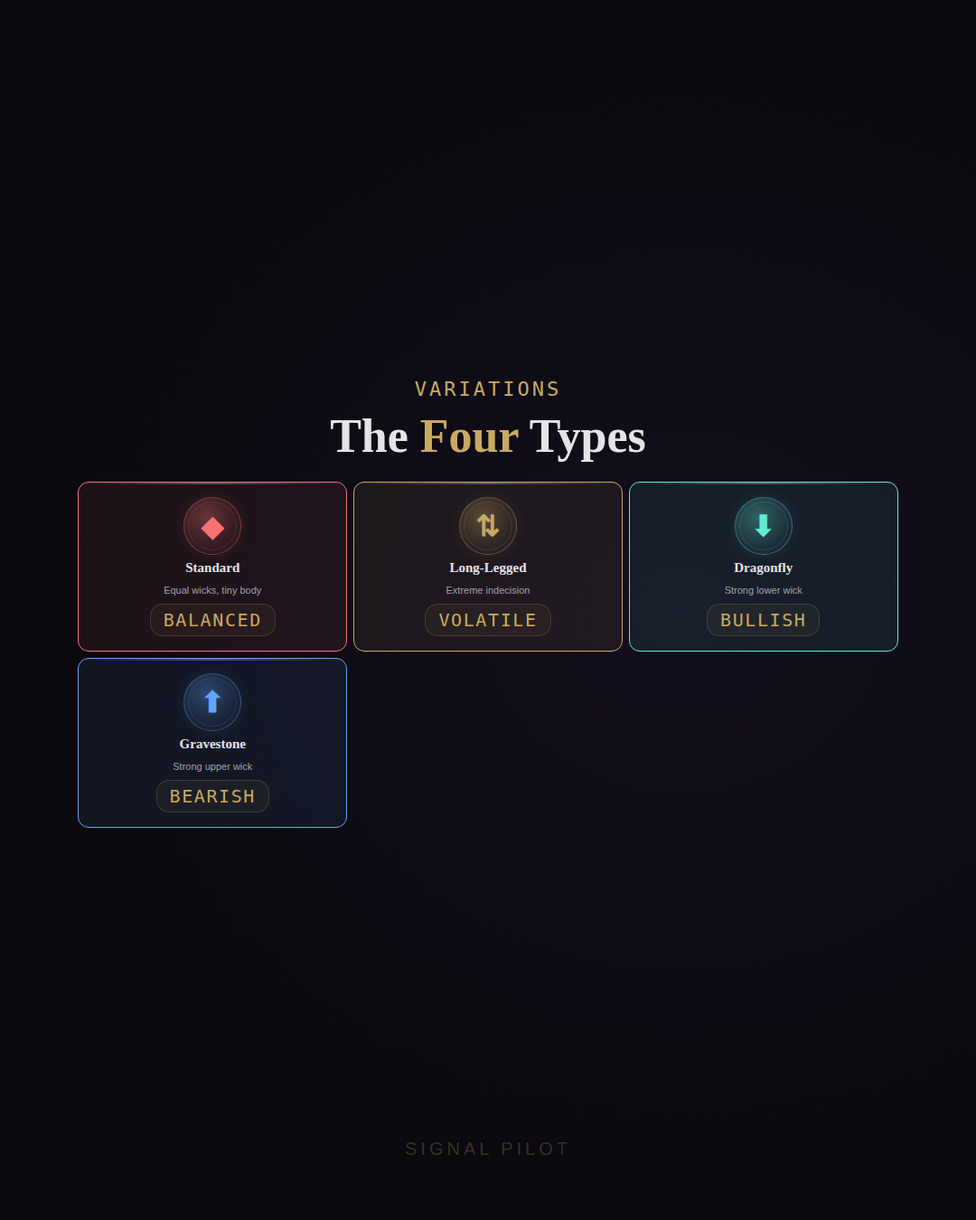
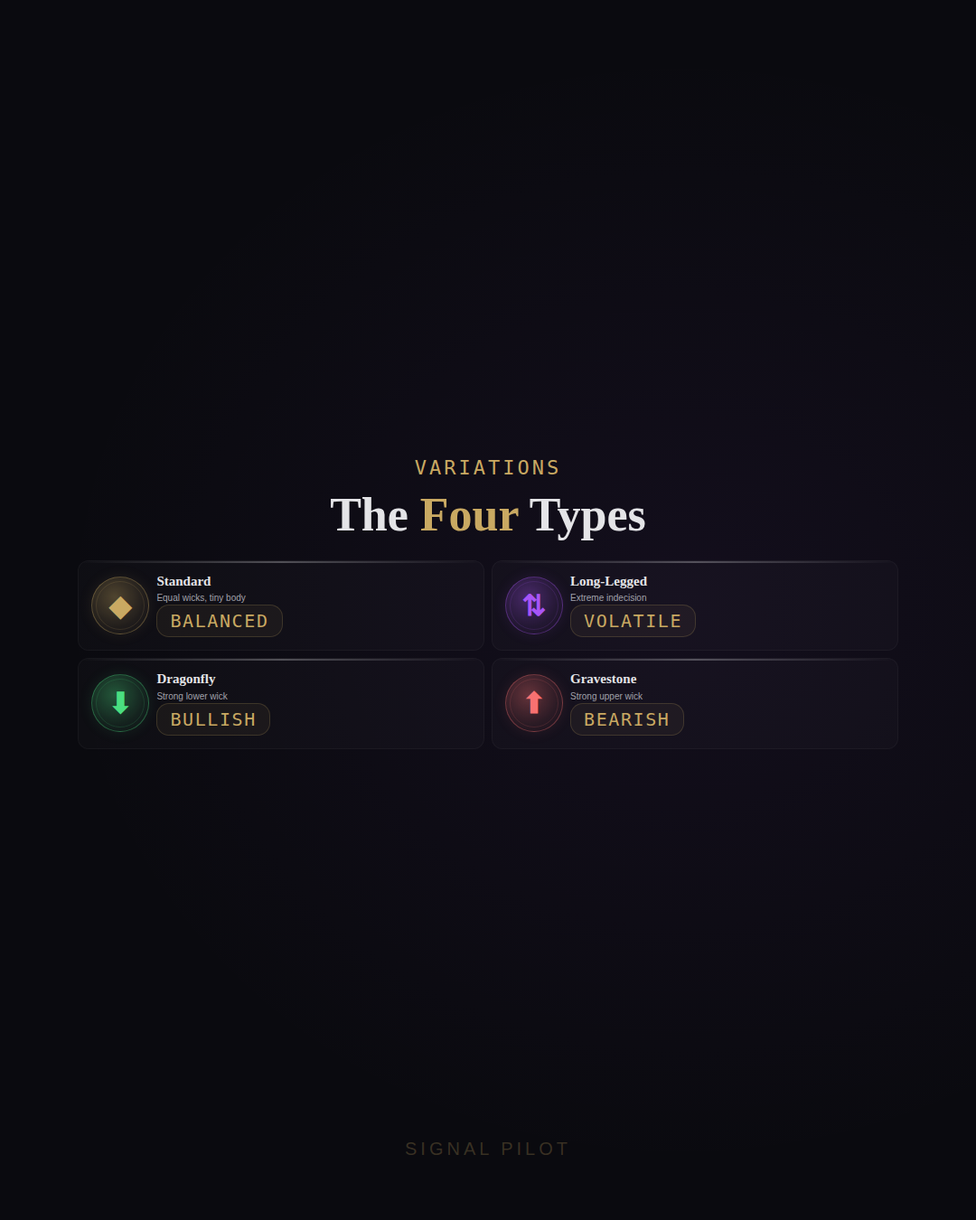
Revert "Redesign post-056 carousel: comprehensive doji pattern guide"
This reverts commit d90a5607555e820868c2ba75f0fc15a04d224658.

diff --git a/INSTAGRAM_CONTENT_HUB/social/post-056/carousel.html b/INSTAGRAM_CONTENT_HUB/social/post-056/carousel.html
@@ -1,12 +1,373 @@
 <!DOCTYPE html>
 <html lang="en">
-<head><meta charset="UTF-8"><meta name="viewport" content="width=device-width, initial-scale=1.0"><title>Post 056 — Doji Mastery</title><link rel="preconnect" href="https://fonts.googleapis.com"><link rel="preconnect" href="https://fonts.gstatic.com" crossorigin><link href="https://fonts.googleapis.com/css2?family=Cormorant+Garamond:ital,wght@0,400;0,500;0,600;0,700&family=Inter:wght@300;400;500;600;700&family=JetBrains+Mono:wght@400;500&family=Gugi&display=swap" rel="stylesheet"><style>*,*::before,*::after{margin:0;padding:0;box-sizing:border-box}:root{--bg:#0a0a0f;--surface:rgba(255,255,255,0.02);--gold:#c9a962;--gold-l:rgba(201,169,98,0.15);--gold-d:rgba(201,169,98,0.08);--teal:#5eead4;--teal-l:rgba(94,234,212,0.15);--teal-d:rgba(94,234,212,0.08);--green:#4ade80;--green-l:rgba(74,222,128,0.15);--green-d:rgba(74,222,128,0.08);--red:#f87171;--red-l:rgba(248,113,113,0.15);--red-d:rgba(248,113,113,0.08);--blue:#60a5fa;--blue-l:rgba(96,165,250,0.15);--blue-d:rgba(96,165,250,0.08);--purple:#a855f7;--purple-l:rgba(168,85,247,0.15);--purple-d:rgba(168,85,247,0.08);--orange:#f59e0b;--orange-l:rgba(245,158,11,0.15);--orange-d:rgba(245,158,11,0.08);--txt:#e4e4e7;--txt2:#a1a1aa;--txt3:#52525b;--serif:'Cormorant Garamond',serif;--sans:'Inter',sans-serif;--mono:'JetBrains Mono',monospace;--brand:'Gugi',sans-serif}body{background:var(--bg);color:var(--txt);font-family:var(--sans);min-height:100vh;padding:40px 20px}.controls{position:fixed;top:20px;right:20px;z-index:100;display:flex;gap:12px}.controls button{background:var(--gold);color:var(--bg);border:none;padding:8px 16px;border-radius:6px;cursor:pointer;font-size:12px;font-weight:600}.page-title{text-align:center;margin-bottom:40px}.page-title h1{font-family:var(--serif);font-size:28px;font-weight:400;margin-bottom:8px}.page-title p{color:var(--txt3);font-size:14px}.carousel-grid{display:grid;grid-template-columns:repeat(auto-fit,minmax(320px,1fr));gap:24px;max-width:1400px;margin:0 auto}.slide-wrapper{aspect-ratio:4/5;position:relative;border-radius:12px;overflow:hidden;background:var(--bg);box-shadow:0 4px 24px rgba(0,0,0,0.4);container-type:inline-size}.slide-content{position:relative;z-index:2;width:100%;height:100%;display:flex;flex-direction:column;align-items:center;padding:5%;text-align:center;justify-content:space-between}.slide-number{font-family:var(--mono);font-size:clamp(7px,1.4cqw,10px);color:var(--txt3);letter-spacing:0.12em}.brand-mark{font-family:var(--brand);font-size:clamp(7px,1.4cqw,10px);color:rgba(201,169,98,0.25);letter-spacing:0.15em}.slide-wrapper::before{content:'';position:absolute;inset:0;z-index:1}.s1::before{background:radial-gradient(ellipse at 50% 40%,rgba(201,169,98,0.08) 0%,transparent 65%)}.s2::before{background:radial-gradient(ellipse at 30% 60%,rgba(94,234,212,0.06) 0%,transparent 65%)}.s3::before{background:radial-gradient(ellipse at 70% 50%,rgba(168,85,247,0.06) 0%,transparent 65%)}.s4::before{background:radial-gradient(ellipse at 50% 60%,rgba(74,222,128,0.06) 0%,transparent 65%)}.s5::before{background:radial-gradient(ellipse at 40% 50%,rgba(96,165,250,0.06) 0%,transparent 65%)}.s6::before{background:radial-gradient(ellipse at 60% 40%,rgba(248,113,113,0.06) 0%,transparent 65%)}.s7::before{background:radial-gradient(ellipse at 50% 50%,rgba(245,158,11,0.06) 0%,transparent 65%)}.s8::before{background:radial-gradient(ellipse at 50% 50%,rgba(201,169,98,0.05) 0%,transparent 60%)}.mid-content{flex:1;display:flex;flex-direction:column;align-items:center;justify-content:center;width:100%}.hook-tag{font-family:var(--mono);font-size:clamp(7px,1.3cqw,10px);letter-spacing:0.25em;text-transform:uppercase;color:var(--gold);margin-bottom:clamp(8px,1.5cqw,12px)}.hook-title{font-family:var(--serif);font-size:clamp(26px,6cqw,48px);font-weight:700;line-height:1.1;color:var(--txt);margin-bottom:clamp(10px,2cqw,16px)}.hook-title em{color:var(--gold);font-style:normal}.hook-sub{font-size:clamp(10px,2cqw,15px);color:var(--txt2);line-height:1.6;max-width:90%}.sec-tag{font-family:var(--mono);font-size:clamp(6px,1.1cqw,9px);letter-spacing:0.2em;text-transform:uppercase;color:var(--gold);margin-bottom:clamp(6px,1.2cqw,10px)}.sec-title{font-family:var(--serif);font-size:clamp(20px,4.5cqw,36px);font-weight:700;line-height:1.15;color:var(--txt);margin-bottom:clamp(12px,2.5cqw,20px)}.sec-title em{color:var(--gold);font-style:normal}.orb{position:relative;width:clamp(110px,22cqw,200px);height:clamp(110px,22cqw,200px);border-radius:50%;background:radial-gradient(circle at 40% 35%,rgba(201,169,98,0.4) 0%,rgba(201,169,98,0.15) 40%,rgba(255,255,255,0.02) 70%,transparent 100%);border:2px solid rgba(201,169,98,0.3);box-shadow:0 0 60px rgba(201,169,98,0.15),0 0 120px rgba(201,169,98,0.05),inset 0 0 40px rgba(201,169,98,0.08);display:flex;align-items:center;justify-content:center;margin-bottom:clamp(10px,2cqw,16px);flex-shrink:0}.orb::before{content:'';position:absolute;inset:8px;border-radius:50%;border:1.5px solid rgba(201,169,98,0.2);background:radial-gradient(circle at 35% 35%,rgba(201,169,98,0.1) 0%,transparent 70%)}.orb::after{content:'';position:absolute;inset:22px;border-radius:50%;border:1px dashed rgba(201,169,98,0.15)}.venn-container{position:relative;width:100%;height:100%;z-index:2}.venn-circle{position:absolute;border-radius:50%;border:1.5px solid;opacity:0.6}.venn-confirm{width:70%;height:70%;top:5%;left:15%;border-color:var(--green)}.venn-bull{width:70%;height:70%;bottom:5%;left:0;border-color:var(--red)}.venn-bear{width:70%;height:70%;bottom:5%;right:0;border-color:var(--gold)}.venn-center{position:absolute;top:50%;left:50%;transform:translate(-50%,-50%);width:20%;height:20%;border-radius:50%;background:radial-gradient(circle,rgba(201,169,98,0.4) 0%,transparent 100%);box-shadow:0 0 16px rgba(201,169,98,0.3)}.venn-label{position:absolute;font-family:var(--mono);font-size:clamp(5px,1cqw,8px);letter-spacing:0.08em;color:var(--txt2)}.vl-top{top:-10%;left:50%;transform:translateX(-50%);color:var(--green)}.vl-left{bottom:-8%;left:-5%;color:var(--red)}.vl-right{bottom:-8%;right:-5%;color:var(--gold)}.grid-4{width:100%;display:grid;grid-template-columns:1fr 1fr;gap:clamp(6px,1.2cqw,10px);margin-bottom:clamp(8px,1.6cqw,12px)}.grid-3{width:100%;display:grid;grid-template-columns:1fr 1fr 1fr;gap:clamp(4px,0.8cqw,7px);margin-bottom:clamp(10px,2cqw,16px)}.grid-3-full{width:100%;display:flex;flex-direction:column;gap:clamp(5px,1cqw,8px);margin-bottom:clamp(10px,2cqw,16px)}.card{padding:clamp(8px,1.6cqw,14px);border-radius:clamp(8px,1.5cqw,12px);background:var(--surface);border:1px solid rgba(255,255,255,0.04);display:flex;flex-direction:column;gap:clamp(4px,0.8cqw,6px);text-align:left;position:relative;overflow:hidden}.card::before{content:'';position:absolute;top:0;left:0;right:0;height:2px;background:linear-gradient(90deg,transparent,currentColor,transparent);opacity:0.3}.card:nth-child(1){background:var(--red-d);border-color:var(--red)}.card:nth-child(2){background:var(--gold-d);border-color:var(--gold)}.card:nth-child(3){background:var(--teal-d);border-color:var(--teal)}.card:nth-child(4){background:var(--blue-d);border-color:var(--blue)}.grid-3.types-grid .card{padding:clamp(10px,2cqw,16px);text-align:center;align-items:center}.icon-circle{width:clamp(36px,7cqw,60px);height:clamp(36px,7cqw,60px);border-radius:50%;display:flex;align-items:center;justify-content:center;position:relative;flex-shrink:0}.icon-circle::before{content:'';position:absolute;inset:4px;border-radius:50%}.ic-letter{font-family:var(--serif);font-size:clamp(14px,3cqw,26px);font-weight:700;position:relative;z-index:2}.card:nth-child(1) .icon-circle{background:radial-gradient(circle at 40% 35%,rgba(248,113,113,0.35) 0%,rgba(248,113,113,0.1) 60%,transparent 100%);border:1.5px solid rgba(248,113,113,0.35);box-shadow:0 0 16px rgba(248,113,113,0.1)}.card:nth-child(1) .icon-circle::before{border:1px solid rgba(248,113,113,0.15)}.card:nth-child(1) .ic-letter{color:var(--red)}.card:nth-child(2) .icon-circle{background:radial-gradient(circle at 40% 35%,rgba(201,169,98,0.35) 0%,rgba(201,169,98,0.1) 60%,transparent 100%);border:1.5px solid rgba(201,169,98,0.35);box-shadow:0 0 16px rgba(201,169,98,0.1)}.card:nth-child(2) .icon-circle::before{border:1px solid rgba(201,169,98,0.15)}.card:nth-child(2) .ic-letter{color:var(--gold)}.card:nth-child(3) .icon-circle{background:radial-gradient(circle at 40% 35%,rgba(94,234,212,0.35) 0%,rgba(94,234,212,0.1) 60%,transparent 100%);border:1.5px solid rgba(94,234,212,0.35);box-shadow:0 0 16px rgba(94,234,212,0.1)}.card:nth-child(3) .icon-circle::before{border:1px solid rgba(94,234,212,0.15)}.card:nth-child(3) .ic-letter{color:var(--teal)}.card:nth-child(4) .icon-circle{background:radial-gradient(circle at 40% 35%,rgba(96,165,250,0.35) 0%,rgba(96,165,250,0.1) 60%,transparent 100%);border:1.5px solid rgba(96,165,250,0.35);box-shadow:0 0 16px rgba(96,165,250,0.1)}.card:nth-child(4) .icon-circle::before{border:1px solid rgba(96,165,250,0.15)}.card:nth-child(4) .ic-letter{color:var(--blue)}.label{font-family:var(--mono);font-size:clamp(6px,1cqw,8px);letter-spacing:0.15em;text-transform:uppercase;color:var(--gold);margin-bottom:clamp(1px,0.2cqw,2px)}.title{font-family:var(--serif);font-size:clamp(10px,2cqw,15px);font-weight:600;color:var(--txt);margin-bottom:clamp(1px,0.2cqw,3px)}.desc{font-size:clamp(8px,1.5cqw,11px);color:var(--txt2);line-height:1.5}.stat-bar{width:100%;height:clamp(3px,0.5cqw,4px);border-radius:3px;background:rgba(255,255,255,0.04);margin-top:clamp(3px,0.6cqw,5px);overflow:hidden}.stat-fill{height:100%;background:linear-gradient(90deg,var(--gold),rgba(201,169,98,0.3));border-radius:3px}.card:nth-child(1) .stat-fill{background:linear-gradient(90deg,var(--red),rgba(248,113,113,0.3))}.card:nth-child(2) .stat-fill{background:linear-gradient(90deg,var(--gold),rgba(201,169,98,0.3))}.card:nth-child(3) .stat-fill{background:linear-gradient(90deg,var(--teal),rgba(94,234,212,0.3))}.card:nth-child(4) .stat-fill{background:linear-gradient(90deg,var(--blue),rgba(96,165,250,0.3))}.pill{display:inline-block;padding:clamp(2px,0.4cqw,4px) clamp(7px,1.3cqw,12px);border-radius:14px;font-family:var(--mono);font-size:clamp(5px,0.95cqw,8px);letter-spacing:0.08em;background:rgba(201,169,98,0.06);border:1px solid rgba(201,169,98,0.2);color:var(--gold)}.step-flow{width:100%;display:flex;flex-direction:column;gap:clamp(5px,1cqw,8px)}.step-row{display:flex;align-items:flex-start;gap:clamp(6px,1.2cqw,10px)}.step-ring{width:clamp(28px,5.2cqw,45px);height:clamp(28px,5.2cqw,45px);border-radius:50%;display:flex;align-items:center;justify-content:center;flex-shrink:0;background:radial-gradient(circle at 40% 35%,rgba(201,169,98,0.35) 0%,rgba(201,169,98,0.1) 60%,transparent 100%);border:1.5px solid rgba(201,169,98,0.35);position:relative}.step-ring::before{content:'';position:absolute;inset:4px;border-radius:50%;border:1px solid rgba(201,169,98,0.15)}.step-ring:nth-child(2){background:radial-gradient(circle at 40% 35%,rgba(74,222,128,0.35) 0%,rgba(74,222,128,0.1) 60%,transparent 100%);border-color:rgba(74,222,128,0.35)}.step-ring:nth-child(2)::before{border-color:rgba(74,222,128,0.15)}.step-ring:nth-child(3){background:radial-gradient(circle at 40% 35%,rgba(248,113,113,0.35) 0%,rgba(248,113,113,0.1) 60%,transparent 100%);border-color:rgba(248,113,113,0.35)}.step-ring:nth-child(3)::before{border-color:rgba(248,113,113,0.15)}.step-num{font-family:var(--serif);font-size:clamp(12px,2.4cqw,20px);font-weight:700;position:relative;z-index:2}.step-row:nth-child(1) .step-num{color:var(--gold)}.step-row:nth-child(2) .step-num{color:var(--green)}.step-row:nth-child(3) .step-num{color:var(--red)}.step-body{flex:1;text-align:left;padding-top:clamp(2px,0.4cqw,4px)}.step-title{font-family:var(--serif);font-size:clamp(10px,1.9cqw,15px);font-weight:600;color:var(--txt);margin-bottom:clamp(1px,0.2cqw,3px)}.step-desc{font-size:clamp(8px,1.5cqw,11px);color:var(--txt2);line-height:1.5}.ctx-item{padding:clamp(8px,1.6cqw,12px);border-radius:clamp(8px,1.5cqw,12px);background:var(--surface);border:1px solid rgba(255,255,255,0.04);border-left:4px solid;display:flex;gap:clamp(6px,1.2cqw,10px);align-items:flex-start}.ctx-item:nth-child(1){background:var(--blue-d);border-left-color:var(--blue)}.ctx-item:nth-child(2){background:var(--gold-d);border-left-color:var(--gold)}.ctx-item:nth-child(3){background:var(--red-d);border-left-color:var(--red)}.ctx-icon{font-size:clamp(18px,3.8cqw,28px);flex-shrink:0}.ctx-body{flex:1}.ctx-label{font-family:var(--mono);font-size:clamp(6px,1.1cqw,9px);letter-spacing:0.15em;text-transform:uppercase;margin-bottom:clamp(1px,0.2cqw,2px)}.ctx-item:nth-child(1) .ctx-label{color:var(--blue)}.ctx-item:nth-child(2) .ctx-label{color:var(--gold)}.ctx-item:nth-child(3) .ctx-label{color:var(--red)}.ctx-title{font-family:var(--serif);font-size:clamp(10px,1.9cqw,14px);font-weight:600;color:var(--txt);margin-bottom:clamp(1px,0.2cqw,2px)}.ctx-desc{font-size:clamp(7px,1.4cqw,10px);color:var(--txt2);line-height:1.5}.trap-item{padding:clamp(8px,1.6cqw,12px);border-radius:clamp(8px,1.5cqw,12px);background:var(--surface);border:1px solid rgba(255,255,255,0.04);border-left:3px solid;display:flex;gap:clamp(6px,1.2cqw,10px)}.trap-item:nth-child(1){background:var(--red-d);border-left-color:var(--red)}.trap-item:nth-child(2){background:var(--orange-d);border-left-color:var(--orange)}.trap-item:nth-child(3){background:var(--purple-d);border-left-color:var(--purple)}.trap-icon{font-size:clamp(18px,3.5cqw,26px);flex-shrink:0}.trap-title{font-family:var(--serif);font-size:clamp(9px,1.8cqw,13px);font-weight:600;color:var(--txt)}.trap-desc{font-size:clamp(7px,1.3cqw,10px);color:var(--txt2);line-height:1.5}.stat-box{padding:clamp(8px,1.6cqw,14px);border-radius:clamp(8px,1.5cqw,12px);background:var(--surface);border:1px solid rgba(255,255,255,0.04);text-align:center}.stat-box:nth-child(1){background:var(--gold-d);border-color:var(--gold)}.stat-box:nth-child(2){background:var(--teal-d);border-color:var(--teal)}.stat-box:nth-child(3){background:var(--green-d);border-color:var(--green)}.stat-value{font-family:var(--serif);font-size:clamp(16px,3.2cqw,26px);font-weight:700;color:var(--txt);margin-bottom:clamp(2px,0.4cqw,4px)}.stat-box:nth-child(1) .stat-value{color:var(--gold)}.stat-box:nth-child(2) .stat-value{color:var(--teal)}.stat-box:nth-child(3) .stat-value{color:var(--green)}.stat-label{font-family:var(--mono);font-size:clamp(6px,1cqw,8px);letter-spacing:0.15em;text-transform:uppercase;color:var(--txt2)}.cta-badge{display:inline-block;padding:clamp(3px,0.6cqw,5px) clamp(10px,2cqw,16px);border:1px solid rgba(201,169,98,0.3);border-radius:18px;font-family:var(--mono);font-size:clamp(6px,1.1cqw,9px);color:var(--gold);letter-spacing:0.2em;margin-bottom:clamp(8px,1.6cqw,14px)}.cta-title{font-family:var(--serif);font-size:clamp(22px,5cqw,40px);font-weight:700;line-height:1.15;margin-bottom:clamp(6px,1.2cqw,10px)}.cta-title em{color:var(--gold);font-style:normal}.cta-sub{font-size:clamp(9px,1.8cqw,13px);color:var(--txt2);line-height:1.6;max-width:88%;margin-bottom:clamp(8px,1.6cqw,12px)}.pill-row{display:flex;flex-wrap:wrap;gap:clamp(3px,0.6cqw,6px);justify-content:center}.body-export-mode{padding:0;background:#000}body.export-mode .controls,body.export-mode .page-title{display:none}body.export-mode .carousel-grid{display:block}body.export-mode .slide-wrapper{display:none;width:1080px;height:1350px;border-radius:0}body.export-mode .slide-wrapper.active{display:block}.export-nav{display:none;position:fixed;bottom:20px;left:50%;transform:translateX(-50%);gap:12px;z-index:1000}body.export-mode .export-nav{display:flex}body.export-mode .carousel-grid{display:block}.export-nav button{background:var(--gold);color:var(--bg);border:none;padding:12px 24px;border-radius:8px;cursor:pointer;font-size:14px;font-weight:600}.export-nav span{background:rgba(255,255,255,0.08);color:var(--txt);padding:12px 24px;border-radius:8px;font-size:14px}</style></head><body><div class="controls"><button onclick="toggleExport()">Export Mode</button></div><div class="page-title"><h1>Post 056 — Doji Mastery</h1><p>8 slides · Candlestick Education</p></div><div class="carousel-grid">
-<!-- SLIDE 1 --><div class="slide-wrapper s1"><div class="slide-content"><div class="slide-number">01 / 08</div><div class="mid-content"><div class="hook-tag">PRICE ACTION</div><div class="hook-title">Doji Is <em>Not</em><br>a Reversal</div><div class="orb"><div class="venn-container"><div class="venn-circle venn-confirm"></div><div class="venn-circle venn-bull"></div><div class="venn-circle venn-bear"></div><div class="venn-center"></div><span class="venn-label vl-top">CONFIRM</span><span class="venn-label vl-left">BULLISH</span><span class="venn-label vl-right">BEARISH</span></div></div><p class="hook-sub">Learn what doji patterns signal, how confirmation works, and when context matters most.</p></div><div class="brand-mark">SIGNAL PILOT</div></div></div>
-<!-- SLIDE 2 --><div class="slide-wrapper s2"><div class="slide-content"><div class="slide-number">02 / 08</div><div class="mid-content"><div class="sec-tag">STRUCTURE</div><div class="sec-title">The <em>Four</em> Parts</div><div class="grid-4"><div class="card"><div class="label">UPPER WICK</div><div class="title">Bulls Pushed Higher</div><div class="desc">Rejection from above. Failed breakout attempt.</div><div class="stat-bar"><div class="stat-fill" style="width:85%"></div></div></div><div class="card"><div class="label">INDECISION BODY</div><div class="title">Open ≈ Close</div><div class="desc">No directional consensus. Equal power, stalemate.</div><div class="stat-bar"><div class="stat-fill" style="width:40%"></div></div></div><div class="card"><div class="label">LOWER WICK</div><div class="title">Bears Pushed Lower</div><div class="desc">Support tested. Buyers defended level.</div><div class="stat-bar"><div class="stat-fill" style="width:80%"></div></div></div><div class="card"><div class="label">KEY INSIGHT</div><div class="title">Neither Side Won</div><div class="desc">Indecision means next candle must confirm direction.</div></div></div></div><div class="brand-mark">SIGNAL PILOT</div></div></div>
-<!-- SLIDE 3 --><div class="slide-wrapper s3"><div class="slide-content"><div class="slide-number">03 / 08</div><div class="mid-content"><div class="sec-tag">VARIATIONS</div><div class="sec-title">The <em>Four</em> Types</div><div class="grid-3 types-grid"><div class="card"><div class="icon-circle"><span class="ic-letter">◆</span></div><div class="title">Standard</div><div class="desc">Equal wicks, tiny body</div><span class="pill">BALANCED</span></div><div class="card"><div class="icon-circle"><span class="ic-letter">⇅</span></div><div class="title">Long-Legged</div><div class="desc">Extreme indecision</div><span class="pill">VOLATILE</span></div><div class="card"><div class="icon-circle"><span class="ic-letter">⬇</span></div><div class="title">Dragonfly</div><div class="desc">Strong lower wick</div><span class="pill">BULLISH</span></div><div class="card"><div class="icon-circle"><span class="ic-letter">⬆</span></div><div class="title">Gravestone</div><div class="desc">Strong upper wick</div><span class="pill">BEARISH</span></div></div></div><div class="brand-mark">SIGNAL PILOT</div></div></div>
-<!-- SLIDE 4 --><div class="slide-wrapper s4"><div class="slide-content"><div class="slide-number">04 / 08</div><div class="mid-content"><div class="sec-tag">THE RULE</div><div class="sec-title">Next Candle <em>Decides</em></div><div class="step-flow"><div class="step-row"><div class="step-ring"><span class="step-num">1</span></div><div class="step-body"><div class="step-title">Doji Appears</div><div class="step-desc">Equal wicks, indecision forms. Wait for confirmation signal.</div></div></div><div class="step-row"><div class="step-ring"><span class="step-num">2</span></div><div class="step-body"><div class="step-title">Buyers Take Control</div><div class="step-desc">Next candle is green/bull. Buyers won battle at the doji level.</div></div></div><div class="step-row"><div class="step-ring"><span class="step-num">3</span></div><div class="step-body"><div class="step-title">Sellers Take Control</div><div class="step-desc">Next candle is red/bear. Sellers won battle at the doji level.</div></div></div></div></div><div class="brand-mark">SIGNAL PILOT</div></div></div>
-<!-- SLIDE 5 --><div class="slide-wrapper s5"><div class="slide-content"><div class="slide-number">05 / 08</div><div class="mid-content"><div class="sec-tag">CONTEXT STACKING</div><div class="sec-title">Where <em>Matters</em> Most</div><div class="grid-3-full"><div class="ctx-item"><div class="ctx-icon">👀</div><div class="ctx-body"><div class="ctx-label">WATCH CLOSELY</div><div class="ctx-title">At S/R Level</div><div class="ctx-desc">Support or resistance. Doji = decision point. Higher probability reversal.</div></div></div><div class="ctx-item"><div class="ctx-icon">🔥</div><div class="ctx-body"><div class="ctx-label">HIGH PROBABILITY</div><div class="ctx-title">After Extended Move</div><div class="ctx-desc">After strong trend + exhaustion + doji = institutional reversal zone forming.</div></div></div><div class="ctx-item"><div class="ctx-icon">😐</div><div class="ctx-body"><div class="ctx-label">PROBABLY NOISE</div><div class="ctx-title">Mid-Trend Doji</div><div class="ctx-desc">No key level nearby. No confluence factors. Pass and wait for better setup.</div></div></div></div></div><div class="brand-mark">SIGNAL PILOT</div></div></div>
-<!-- SLIDE 6 --><div class="slide-wrapper s6"><div class="slide-content"><div class="slide-number">06 / 08</div><div class="mid-content"><div class="sec-tag">COMMON TRAPS</div><div class="sec-title">Mistakes to <em>Avoid</em></div><div class="grid-3-full"><div class="trap-item"><div class="trap-icon">⚠</div><div><div class="trap-title">Trading Without Confirmation</div><div class="trap-desc">Doji alone is NOT a signal. Must wait for next candle.</div></div></div><div class="trap-item"><div class="trap-icon">❌</div><div><div class="trap-title">Ignoring Market Context</div><div class="trap-desc">Same doji in uptrend vs downtrend means different things.</div></div></div><div class="trap-item"><div class="trap-icon">🚫</div><div><div class="trap-title">Expecting Reversal Always</div><div class="trap-desc">Doji can continue trend. Context and levels determine outcome.</div></div></div></div></div><div class="brand-mark">SIGNAL PILOT</div></div></div>
-<!-- SLIDE 7 --><div class="slide-wrapper s7"><div class="slide-content"><div class="slide-number">07 / 08</div><div class="mid-content"><div class="sec-tag">KEY STATISTICS</div><div class="sec-title">Doji <em>Success</em> Metrics</div><div class="grid-3"><div class="stat-box"><div class="stat-value">73%</div><div class="stat-label">At Key Levels</div></div><div class="stat-box"><div class="stat-value">52%</div><div class="stat-label">Mid-Trend</div></div><div class="stat-box"><div class="stat-value">4:1</div><div class="stat-label">Ratio (Win:Loss)</div></div></div><p style="font-size:clamp(8px,1.5cqw,11px);color:var(--txt2);margin-top:clamp(6px,1.2cqw,10px);">Context and confluence determine probability, not the pattern alone.</p></div><div class="brand-mark">SIGNAL PILOT</div></div></div>
-<!-- SLIDE 8 --><div class="slide-wrapper s8"><div class="slide-content"><div class="slide-number">08 / 08</div><div class="mid-content"><div class="cta-badge">CANDLESTICK MASTERY</div><div class="cta-title">Build Your <em>Trading</em> Foundation</div><p class="cta-sub">Master doji confirmation, learn context stacking, and trade with institutional-grade conviction.</p><div class="pill-row"><span class="pill">DOJI TYPES</span><span class="pill">CONFIRMATION</span><span class="pill">CONTEXT</span><span class="pill">CONFLUENCE</span><span class="pill">PRICE ACTION</span></div></div><div class="brand-mark">SIGNAL PILOT</div></div></div>
-</div><div class="export-nav"><button onclick="prev()">← Prev</button><span><span id="cur">1</span> / 08</span><button onclick="next()">Next →</button></div><script>const slides=document.querySelectorAll('.slide-wrapper');let cur=0,exp=false;function toggleExport(){exp=!exp;document.body.classList.toggle('export-mode',exp);if(exp){cur=0;upd()}}function upd(){slides.forEach((s,i)=>s.classList.toggle('active',i===cur));document.getElementById('cur').textContent=String(cur+1).padStart(2,'0')}function next(){cur=(cur+1)%slides.length;upd()}function prev(){cur=(cur-1+slides.length)%slides.length;upd()}document.addEventListener('keydown',e=>{if(!exp)return;if(e.key==='ArrowRight')next();if(e.key==='ArrowLeft')prev();if(e.key==='Escape')toggleExport()})</script></body></html>
+<head>
+  <meta charset="UTF-8">
+  <meta name="viewport" content="width=device-width, initial-scale=1.0">
+  <title>Post 056 — Doji Mastery</title>
+  <link rel="preconnect" href="https://fonts.googleapis.com">
+  <link rel="preconnect" href="https://fonts.gstatic.com" crossorigin>
+  <link href="https://fonts.googleapis.com/css2?family=Cormorant+Garamond:ital,wght@0,400;0,500;0,600;0,700&family=Inter:wght@300;400;500;600;700&family=JetBrains+Mono:wght@400;500&family=Gugi&display=swap" rel="stylesheet">
+  <style>
+*,*::before,*::after{margin:0;padding:0;box-sizing:border-box}
+:root{--bg:#0a0a0f;--surface:rgba(255,255,255,0.02);--gold:#c9a962;--gold-l:rgba(201,169,98,0.15);--gold-d:rgba(201,169,98,0.08);--teal:#5eead4;--teal-l:rgba(94,234,212,0.15);--teal-d:rgba(94,234,212,0.08);--green:#4ade80;--green-l:rgba(74,222,128,0.15);--green-d:rgba(74,222,128,0.08);--red:#f87171;--red-l:rgba(248,113,113,0.15);--red-d:rgba(248,113,113,0.08);--blue:#60a5fa;--blue-l:rgba(96,165,250,0.15);--blue-d:rgba(96,165,250,0.08);--purple:#a855f7;--purple-l:rgba(168,85,247,0.15);--purple-d:rgba(168,85,247,0.08);--txt:#e4e4e7;--txt2:#a1a1aa;--txt3:#52525b;--serif:'Cormorant Garamond',serif;--sans:'Inter',sans-serif;--mono:'JetBrains Mono',monospace;--brand:'Gugi',sans-serif}
+body{background:var(--bg);color:var(--txt);font-family:var(--sans);min-height:100vh;padding:40px 20px}
+.controls{position:fixed;top:20px;right:20px;z-index:100;display:flex;gap:12px}
+.controls button{background:var(--gold);color:var(--bg);border:none;padding:8px 16px;border-radius:6px;cursor:pointer;font-size:12px;font-weight:600}
+.page-title{text-align:center;margin-bottom:40px}
+.page-title h1{font-family:var(--serif);font-size:28px;font-weight:400;margin-bottom:8px}
+.page-title p{color:var(--txt3);font-size:14px}
+.carousel-grid{display:grid;grid-template-columns:repeat(auto-fit,minmax(320px,1fr));gap:24px;max-width:1400px;margin:0 auto}
+.slide-wrapper{aspect-ratio:4/5;position:relative;border-radius:12px;overflow:hidden;background:var(--bg);box-shadow:0 4px 24px rgba(0,0,0,0.4);container-type:inline-size}
+.slide-content{position:relative;z-index:2;width:100%;height:100%;display:flex;flex-direction:column;align-items:center;padding:6%;text-align:center;justify-content:space-between}
+.slide-number{font-family:var(--mono);font-size:clamp(7px,1.4cqw,10px);color:var(--txt3);letter-spacing:0.12em}
+.brand-mark{font-family:var(--brand);font-size:clamp(7px,1.4cqw,10px);color:rgba(201,169,98,0.25);letter-spacing:0.15em}
+.slide-wrapper::before{content:'';position:absolute;inset:0;z-index:1}
+.s1::before{background:radial-gradient(ellipse at 50% 40%,rgba(201,169,98,0.08) 0%,transparent 65%)}
+.s2::before{background:radial-gradient(ellipse at 30% 60%,rgba(94,234,212,0.06) 0%,transparent 65%)}
+.s3::before{background:radial-gradient(ellipse at 70% 50%,rgba(168,85,247,0.06) 0%,transparent 65%)}
+.s4::before{background:radial-gradient(ellipse at 50% 60%,rgba(74,222,128,0.06) 0%,transparent 65%)}
+.s5::before{background:radial-gradient(ellipse at 40% 50%,rgba(96,165,250,0.06) 0%,transparent 65%)}
+.s6::before{background:radial-gradient(ellipse at 50% 50%,rgba(201,169,98,0.05) 0%,transparent 60%)}
+
+.mid-content{flex:1;display:flex;flex-direction:column;align-items:center;justify-content:center;width:100%}
+.hook-tag{font-family:var(--mono);font-size:clamp(7px,1.3cqw,10px);letter-spacing:0.25em;text-transform:uppercase;color:var(--gold);margin-bottom:clamp(8px,1.5cqw,12px)}
+.hook-title{font-family:var(--serif);font-size:clamp(26px,6cqw,48px);font-weight:700;line-height:1.1;color:var(--txt);margin-bottom:clamp(10px,2cqw,16px)}
+.hook-title em{color:var(--gold);font-style:normal}
+.hook-sub{font-size:clamp(10px,2cqw,15px);color:var(--txt2);line-height:1.6;max-width:90%}
+.sec-tag{font-family:var(--mono);font-size:clamp(6px,1.1cqw,9px);letter-spacing:0.2em;text-transform:uppercase;color:var(--gold);margin-bottom:clamp(6px,1.2cqw,10px)}
+.sec-title{font-family:var(--serif);font-size:clamp(20px,4.5cqw,36px);font-weight:700;line-height:1.15;color:var(--txt);margin-bottom:clamp(12px,2.5cqw,20px)}
+.sec-title em{color:var(--gold);font-style:normal}
+
+.orb{position:relative;width:clamp(110px,22cqw,200px);height:clamp(110px,22cqw,200px);border-radius:50%;background:radial-gradient(circle at 40% 35%,rgba(201,169,98,0.4) 0%,rgba(201,169,98,0.15) 40%,rgba(255,255,255,0.02) 70%,transparent 100%);border:2px solid rgba(201,169,98,0.3);box-shadow:0 0 60px rgba(201,169,98,0.15),0 0 120px rgba(201,169,98,0.05),inset 0 0 40px rgba(201,169,98,0.08);display:flex;align-items:center;justify-content:center;margin-bottom:clamp(10px,2cqw,16px);flex-shrink:0}
+.orb::before{content:'';position:absolute;inset:8px;border-radius:50%;border:1.5px solid rgba(201,169,98,0.2);background:radial-gradient(circle at 35% 35%,rgba(201,169,98,0.1) 0%,transparent 70%)}
+.orb::after{content:'';position:absolute;inset:22px;border-radius:50%;border:1px dashed rgba(201,169,98,0.15)}
+
+.venn-container{position:relative;width:100%;height:100%;z-index:2}
+.venn-circle{position:absolute;border-radius:50%;border:1.5px solid;opacity:0.6}
+.venn-confirm{width:70%;height:70%;top:5%;left:15%;border-color:var(--green)}
+.venn-bull{width:70%;height:70%;bottom:5%;left:0;border-color:var(--red)}
+.venn-bear{width:70%;height:70%;bottom:5%;right:0;border-color:var(--gold)}
+.venn-center{position:absolute;top:50%;left:50%;transform:translate(-50%,-50%);width:20%;height:20%;border-radius:50%;background:radial-gradient(circle,rgba(201,169,98,0.4) 0%,transparent 100%);box-shadow:0 0 16px rgba(201,169,98,0.3)}
+.venn-label{position:absolute;font-family:var(--mono);font-size:clamp(5px,1cqw,8px);letter-spacing:0.08em;color:var(--txt2)}
+.vl-top{top:-10%;left:50%;transform:translateX(-50%);color:var(--green)}
+.vl-left{bottom:-8%;left:-5%;color:var(--red)}
+.vl-right{bottom:-8%;right:-5%;color:var(--gold)}
+
+.grid-2x2{width:100%;display:grid;grid-template-columns:1fr 1fr;gap:clamp(6px,1.2cqw,10px);margin-bottom:clamp(8px,1.6cqw,12px)}
+.grid-2x3{width:100%;display:grid;grid-template-columns:1fr 1fr;gap:clamp(5px,1cqw,8px);margin-bottom:clamp(10px,2cqw,16px)}
+.card{padding:clamp(8px,1.6cqw,14px);border-radius:clamp(8px,1.5cqw,12px);background:var(--surface);border:1px solid rgba(255,255,255,0.04);display:flex;flex-direction:column;gap:clamp(4px,0.8cqw,6px);text-align:left;position:relative;overflow:hidden}
+.card.hl-gold{background:var(--gold-d);border-color:var(--gold);box-shadow:0 0 12px rgba(201,169,98,0.05)}
+.card::before{content:'';position:absolute;top:0;left:0;right:0;height:2px;background:linear-gradient(90deg,transparent,currentColor,transparent);opacity:0.3}
+
+.icon-circle{width:clamp(32px,6cqw,54px);height:clamp(32px,6cqw,54px);border-radius:50%;display:flex;align-items:center;justify-content:center;position:relative;flex-shrink:0;background:radial-gradient(circle at 40% 35%,rgba(201,169,98,0.35) 0%,rgba(201,169,98,0.1) 60%,transparent 100%);border:1.5px solid rgba(201,169,98,0.35);box-shadow:0 0 16px rgba(201,169,98,0.1)}
+.icon-circle::before{content:'';position:absolute;inset:4px;border-radius:50%;border:1px solid rgba(201,169,98,0.15)}
+.ic-letter{font-family:var(--serif);font-size:clamp(13px,2.8cqw,22px);font-weight:700;position:relative;z-index:2;color:var(--gold)}
+
+.ic-teal{background:radial-gradient(circle at 40% 35%,rgba(94,234,212,0.35) 0%,rgba(94,234,212,0.1) 60%,transparent 100%);border-color:rgba(94,234,212,0.35);box-shadow:0 0 16px rgba(94,234,212,0.1)}
+.ic-teal::before{border-color:rgba(94,234,212,0.15)}
+.ic-teal .ic-letter{color:var(--teal)}
+
+.ic-green{background:radial-gradient(circle at 40% 35%,rgba(74,222,128,0.35) 0%,rgba(74,222,128,0.1) 60%,transparent 100%);border-color:rgba(74,222,128,0.35);box-shadow:0 0 16px rgba(74,222,128,0.1)}
+.ic-green::before{border-color:rgba(74,222,128,0.15)}
+.ic-green .ic-letter{color:var(--green)}
+
+.ic-red{background:radial-gradient(circle at 40% 35%,rgba(248,113,113,0.35) 0%,rgba(248,113,113,0.1) 60%,transparent 100%);border-color:rgba(248,113,113,0.35);box-shadow:0 0 16px rgba(248,113,113,0.1)}
+.ic-red::before{border-color:rgba(248,113,113,0.15)}
+.ic-red .ic-letter{color:var(--red)}
+
+.ic-purple{background:radial-gradient(circle at 40% 35%,rgba(168,85,247,0.35) 0%,rgba(168,85,247,0.1) 60%,transparent 100%);border-color:rgba(168,85,247,0.35);box-shadow:0 0 16px rgba(168,85,247,0.1)}
+.ic-purple::before{border-color:rgba(168,85,247,0.15)}
+.ic-purple .ic-letter{color:var(--purple)}
+
+.ic-blue{background:radial-gradient(circle at 40% 35%,rgba(96,165,250,0.35) 0%,rgba(96,165,250,0.1) 60%,transparent 100%);border-color:rgba(96,165,250,0.35);box-shadow:0 0 16px rgba(96,165,250,0.1)}
+.ic-blue::before{border-color:rgba(96,165,250,0.15)}
+.ic-blue .ic-letter{color:var(--blue)}
+
+.label{font-family:var(--mono);font-size:clamp(6px,1cqw,8px);letter-spacing:0.15em;text-transform:uppercase;color:var(--gold);margin-bottom:clamp(1px,0.2cqw,2px)}
+.title{font-family:var(--serif);font-size:clamp(10px,2cqw,15px);font-weight:600;color:var(--txt);margin-bottom:clamp(1px,0.2cqw,3px)}
+.desc{font-size:clamp(8px,1.5cqw,11px);color:var(--txt2);line-height:1.5}
+.stat-bar{width:100%;height:clamp(3px,0.5cqw,4px);border-radius:3px;background:rgba(255,255,255,0.04);margin-top:clamp(3px,0.6cqw,5px);overflow:hidden}
+.stat-fill{height:100%;background:linear-gradient(90deg,var(--gold),rgba(201,169,98,0.3));border-radius:3px}
+.stat-fill.green{background:linear-gradient(90deg,var(--green),rgba(74,222,128,0.3))}
+.stat-fill.teal{background:linear-gradient(90deg,var(--teal),rgba(94,234,212,0.3))}
+
+.pill{display:inline-block;padding:clamp(2px,0.4cqw,4px) clamp(7px,1.3cqw,12px);border-radius:14px;font-family:var(--mono);font-size:clamp(5px,0.95cqw,8px);letter-spacing:0.08em;background:rgba(201,169,98,0.06);border:1px solid rgba(201,169,98,0.2);color:var(--gold)}
+
+.step-flow{width:100%;display:flex;flex-direction:column;gap:clamp(5px,1cqw,8px)}
+.step-row{display:flex;align-items:flex-start;gap:clamp(6px,1.2cqw,10px)}
+.step-ring{width:clamp(28px,5.2cqw,45px);height:clamp(28px,5.2cqw,45px);border-radius:50%;display:flex;align-items:center;justify-content:center;flex-shrink:0;background:radial-gradient(circle at 40% 35%,rgba(201,169,98,0.35) 0%,rgba(201,169,98,0.1) 60%,transparent 100%);border:1.5px solid rgba(201,169,98,0.35);position:relative}
+.step-ring::before{content:'';position:absolute;inset:4px;border-radius:50%;border:1px solid rgba(201,169,98,0.15)}
+.step-num{font-family:var(--serif);font-size:clamp(12px,2.4cqw,20px);font-weight:700;color:var(--gold);position:relative;z-index:2}
+.step-body{flex:1;text-align:left;padding-top:clamp(2px,0.4cqw,4px)}
+.step-title{font-family:var(--serif);font-size:clamp(10px,1.9cqw,15px);font-weight:600;color:var(--txt);margin-bottom:clamp(1px,0.2cqw,3px)}
+.step-desc{font-size:clamp(8px,1.5cqw,11px);color:var(--txt2);line-height:1.5}
+
+.ctx-item{padding:clamp(8px,1.6cqw,12px);border-radius:clamp(8px,1.5cqw,12px);background:var(--surface);border:1px solid rgba(255,255,255,0.04);border-left:4px solid;display:flex;gap:clamp(6px,1.2cqw,10px);align-items:flex-start}
+.ctx-item.high{background:var(--blue-d);border-left-color:var(--blue)}
+.ctx-item.med{background:var(--gold-d);border-left-color:var(--gold)}
+.ctx-item.low{background:var(--red-d);border-left-color:var(--red)}
+.ctx-icon{font-size:clamp(18px,3.8cqw,28px);flex-shrink:0}
+.ctx-body{flex:1}
+.ctx-label{font-family:var(--mono);font-size:clamp(6px,1.1cqw,9px);letter-spacing:0.15em;text-transform:uppercase;margin-bottom:clamp(1px,0.2cqw,2px)}
+.ctx-item.high .ctx-label{color:var(--blue)}
+.ctx-item.med .ctx-label{color:var(--gold)}
+.ctx-item.low .ctx-label{color:var(--red)}
+.ctx-title{font-family:var(--serif);font-size:clamp(10px,1.9cqw,14px);font-weight:600;color:var(--txt);margin-bottom:clamp(1px,0.2cqw,2px)}
+.ctx-desc{font-size:clamp(7px,1.4cqw,10px);color:var(--txt2);line-height:1.5}
+
+.cta-badge{display:inline-block;padding:clamp(3px,0.6cqw,5px) clamp(10px,2cqw,16px);border:1px solid rgba(201,169,98,0.3);border-radius:18px;font-family:var(--mono);font-size:clamp(6px,1.1cqw,9px);color:var(--gold);letter-spacing:0.2em;margin-bottom:clamp(8px,1.6cqw,14px)}
+.cta-title{font-family:var(--serif);font-size:clamp(22px,5cqw,40px);font-weight:700;line-height:1.15;margin-bottom:clamp(6px,1.2cqw,10px)}
+.cta-title em{color:var(--gold);font-style:normal}
+.cta-sub{font-size:clamp(9px,1.8cqw,13px);color:var(--txt2);line-height:1.6;max-width:88%;margin-bottom:clamp(8px,1.6cqw,12px)}
+.pill-row{display:flex;flex-wrap:wrap;gap:clamp(3px,0.6cqw,6px);justify-content:center}
+
+body.export-mode{padding:0;background:#000}
+body.export-mode .controls,body.export-mode .page-title{display:none}
+body.export-mode .carousel-grid{display:block}
+body.export-mode .slide-wrapper{display:none;width:1080px;height:1350px;border-radius:0}
+body.export-mode .slide-wrapper.active{display:block}
+.export-nav{display:none;position:fixed;bottom:20px;left:50%;transform:translateX(-50%);gap:12px;z-index:1000}
+body.export-mode .export-nav{display:flex}
+.export-nav button{background:var(--gold);color:var(--bg);border:none;padding:12px 24px;border-radius:8px;cursor:pointer;font-size:14px;font-weight:600}
+.export-nav span{background:rgba(255,255,255,0.08);color:var(--txt);padding:12px 24px;border-radius:8px;font-size:14px}
+  </style>
+</head>
+<body>
+<div class="controls">
+  <button onclick="toggleExport()">Export Mode</button>
+</div>
+
+<div class="page-title">
+  <h1>Post 056 — Doji Mastery</h1>
+  <p>6 slides · Candlestick Education</p>
+</div>
+
+<div class="carousel-grid">
+
+<!-- SLIDE 1: HOOK - VENN DIAGRAM -->
+<div class="slide-wrapper s1" data-slide="1">
+<div class="slide-content">
+<div class="slide-number">01 / 06</div>
+<div class="mid-content">
+<div class="hook-tag">PRICE ACTION</div>
+<div class="hook-title">Doji Is <em>Not</em><br>a Reversal</div>
+<div class="orb">
+<div class="venn-container">
+<div class="venn-circle venn-confirm"></div>
+<div class="venn-circle venn-bull"></div>
+<div class="venn-circle venn-bear"></div>
+<div class="venn-center"></div>
+<span class="venn-label vl-top">CONFIRM</span>
+<span class="venn-label vl-left">BULLISH</span>
+<span class="venn-label vl-right">BEARISH</span>
+</div>
+</div>
+<p class="hook-sub">Learn what doji patterns signal, how confirmation works, and when context matters most.</p>
+</div>
+<div class="brand-mark">SIGNAL PILOT</div>
+</div>
+</div>
+
+<!-- SLIDE 2: ANATOMY -->
+<div class="slide-wrapper s2" data-slide="2">
+<div class="slide-content">
+<div class="slide-number">02 / 06</div>
+<div class="mid-content">
+<div class="sec-tag">STRUCTURE</div>
+<div class="sec-title">The <em>Four</em> Parts</div>
+<div class="grid-2x2">
+<div class="card">
+<div class="label">UPPER WICK</div>
+<div class="title">Bulls Pushed Higher</div>
+<div class="desc">Rejection from above. Failed breakout attempt.</div>
+<div class="stat-bar"><div class="stat-fill" style="width:85%"></div></div>
+</div>
+<div class="card hl-gold">
+<div class="label">INDECISION BODY</div>
+<div class="title">Open ≈ Close</div>
+<div class="desc">No directional consensus. Equal power, stalemate.</div>
+<div class="stat-bar"><div class="stat-fill" style="width:40%"></div></div>
+</div>
+<div class="card">
+<div class="label">LOWER WICK</div>
+<div class="title">Bears Pushed Lower</div>
+<div class="desc">Support tested. Buyers defended level.</div>
+<div class="stat-bar"><div class="stat-fill green" style="width:80%"></div></div>
+</div>
+<div class="card">
+<div class="label">KEY INSIGHT</div>
+<div class="title">Neither Side Won</div>
+<div class="desc">Indecision means next candle must confirm direction.</div>
+</div>
+</div>
+</div>
+<div class="brand-mark">SIGNAL PILOT</div>
+</div>
+</div>
+
+<!-- SLIDE 3: TYPES -->
+<div class="slide-wrapper s3" data-slide="3">
+<div class="slide-content">
+<div class="slide-number">03 / 06</div>
+<div class="mid-content">
+<div class="sec-tag">VARIATIONS</div>
+<div class="sec-title">The <em>Four</em> Types</div>
+<div class="grid-2x3">
+<div class="card">
+<div style="display:flex;align-items:center;gap:8px;width:100%">
+<div class="icon-circle"><span class="ic-letter">◆</span></div>
+<div style="flex:1;text-align:left">
+<div class="title">Standard</div>
+<div class="desc" style="font-size:clamp(7px,1.3cqw,10px)">Equal wicks, tiny body</div>
+<span class="pill">BALANCED</span>
+</div>
+</div>
+</div>
+<div class="card">
+<div style="display:flex;align-items:center;gap:8px;width:100%">
+<div class="icon-circle ic-purple"><span class="ic-letter">⇅</span></div>
+<div style="flex:1;text-align:left">
+<div class="title">Long-Legged</div>
+<div class="desc" style="font-size:clamp(7px,1.3cqw,10px)">Extreme indecision</div>
+<span class="pill">VOLATILE</span>
+</div>
+</div>
+</div>
+<div class="card">
+<div style="display:flex;align-items:center;gap:8px;width:100%">
+<div class="icon-circle ic-green"><span class="ic-letter">⬇</span></div>
+<div style="flex:1;text-align:left">
+<div class="title">Dragonfly</div>
+<div class="desc" style="font-size:clamp(7px,1.3cqw,10px)">Strong lower wick</div>
+<span class="pill">BULLISH</span>
+</div>
+</div>
+</div>
+<div class="card">
+<div style="display:flex;align-items:center;gap:8px;width:100%">
+<div class="icon-circle ic-red"><span class="ic-letter">⬆</span></div>
+<div style="flex:1;text-align:left">
+<div class="title">Gravestone</div>
+<div class="desc" style="font-size:clamp(7px,1.3cqw,10px)">Strong upper wick</div>
+<span class="pill">BEARISH</span>
+</div>
+</div>
+</div>
+</div>
+</div>
+<div class="brand-mark">SIGNAL PILOT</div>
+</div>
+</div>
+
+<!-- SLIDE 4: CONFIRMATION -->
+<div class="slide-wrapper s4" data-slide="4">
+<div class="slide-content">
+<div class="slide-number">04 / 06</div>
+<div class="mid-content">
+<div class="sec-tag">THE RULE</div>
+<div class="sec-title">Next Candle <em>Decides</em></div>
+<div class="step-flow">
+<div class="step-row">
+<div class="step-ring"><span class="step-num">1</span></div>
+<div class="step-body">
+<div class="step-title">Doji Appears</div>
+<div class="step-desc">Equal wicks, indecision forms. Wait for confirmation signal.</div>
+</div>
+</div>
+<div class="step-row">
+<div class="step-ring" style="background:radial-gradient(circle at 40% 35%,rgba(74,222,128,0.35) 0%,rgba(74,222,128,0.1) 60%,transparent 100%);border-color:rgba(74,222,128,0.35);box-shadow:0 0 16px rgba(74,222,128,0.1)"><span class="step-num" style="color:var(--green)">2</span></div>
+<div class="step-body">
+<div class="step-title">Buyers Take Control</div>
+<div class="step-desc">Next candle is green/bull. Buyers won battle at the doji level.</div>
+</div>
+</div>
+<div class="step-row">
+<div class="step-ring" style="background:radial-gradient(circle at 40% 35%,rgba(248,113,113,0.35) 0%,rgba(248,113,113,0.1) 60%,transparent 100%);border-color:rgba(248,113,113,0.35);box-shadow:0 0 16px rgba(248,113,113,0.1)"><span class="step-num" style="color:var(--red)">3</span></div>
+<div class="step-body">
+<div class="step-title">Sellers Take Control</div>
+<div class="step-desc">Next candle is red/bear. Sellers won battle at the doji level.</div>
+</div>
+</div>
+</div>
+</div>
+<div class="brand-mark">SIGNAL PILOT</div>
+</div>
+</div>
+
+<!-- SLIDE 5: CONTEXT -->
+<div class="slide-wrapper s5" data-slide="5">
+<div class="slide-content">
+<div class="slide-number">05 / 06</div>
+<div class="mid-content">
+<div class="sec-tag">CONTEXT STACKING</div>
+<div class="sec-title">Where <em>Matters</em> Most</div>
+<div style="width:100%;display:flex;flex-direction:column;gap:clamp(5px,1cqw,8px)">
+<div class="ctx-item high">
+<div class="ctx-icon">👀</div>
+<div class="ctx-body">
+<div class="ctx-label">WATCH CLOSELY</div>
+<div class="ctx-title">At S/R Level</div>
+<div class="ctx-desc">Support or resistance. Doji = decision point. Higher probability reversal.</div>
+</div>
+</div>
+<div class="ctx-item med">
+<div class="ctx-icon">🔥</div>
+<div class="ctx-body">
+<div class="ctx-label">HIGH PROBABILITY</div>
+<div class="ctx-title">After Extended Move</div>
+<div class="ctx-desc">After strong trend + exhaustion + doji = institutional reversal zone forming.</div>
+</div>
+</div>
+<div class="ctx-item low">
+<div class="ctx-icon">😐</div>
+<div class="ctx-body">
+<div class="ctx-label">PROBABLY NOISE</div>
+<div class="ctx-title">Mid-Trend Doji</div>
+<div class="ctx-desc">No key level nearby. No confluence factors. Pass and wait for better setup.</div>
+</div>
+</div>
+</div>
+</div>
+<div class="brand-mark">SIGNAL PILOT</div>
+</div>
+</div>
+
+<!-- SLIDE 6: CTA -->
+<div class="slide-wrapper s6" data-slide="6">
+<div class="slide-content">
+<div class="slide-number">06 / 06</div>
+<div class="mid-content">
+<div class="cta-badge">CANDLESTICK MASTERY</div>
+<div class="cta-title">Build Your <em>Trading</em> Foundation</div>
+<p class="cta-sub">Master doji confirmation, learn context stacking, and trade with institutional-grade conviction.</p>
+<div class="pill-row">
+<span class="pill">DOJI TYPES</span>
+<span class="pill">CONFIRMATION</span>
+<span class="pill">CONTEXT</span>
+<span class="pill">CONFLUENCE</span>
+<span class="pill">PRICE ACTION</span>
+</div>
+</div>
+<div class="brand-mark">SIGNAL PILOT</div>
+</div>
+</div>
+
+</div>
+
+<div class="export-nav">
+  <button onclick="prev()">← Prev</button>
+  <span><span id="cur">1</span> / 6</span>
+  <button onclick="next()">Next →</button>
+</div>
+
+<script>
+const slides=document.querySelectorAll('.slide-wrapper');
+let cur=0,exp=false;
+function toggleExport(){exp=!exp;document.body.classList.toggle('export-mode',exp);if(exp){cur=0;upd()}}
+function upd(){slides.forEach((s,i)=>s.classList.toggle('active',i===cur));document.getElementById('cur').textContent=cur+1}
+function next(){cur=(cur+1)%slides.length;upd()}
+function prev(){cur=(cur-1+slides.length)%slides.length;upd()}
+document.addEventListener('keydown',e=>{if(!exp)return;if(e.key==='ArrowRight')next();if(e.key==='ArrowLeft')prev();if(e.key==='Escape')toggleExport()})
+</script>
+</body>
+</html>
